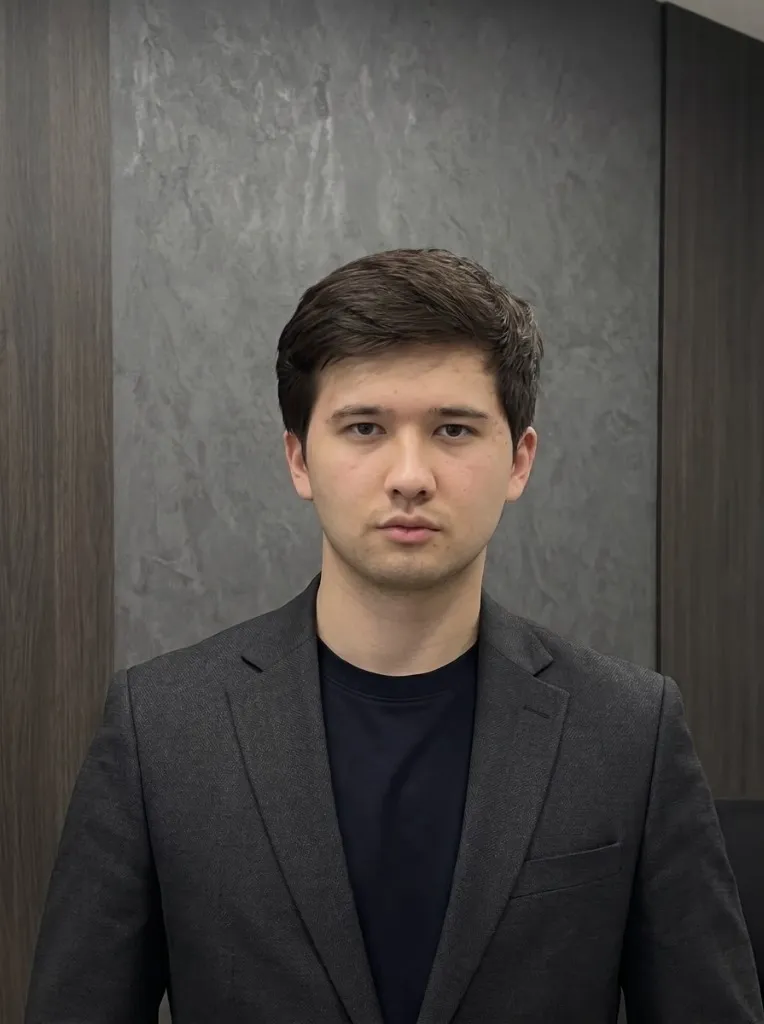
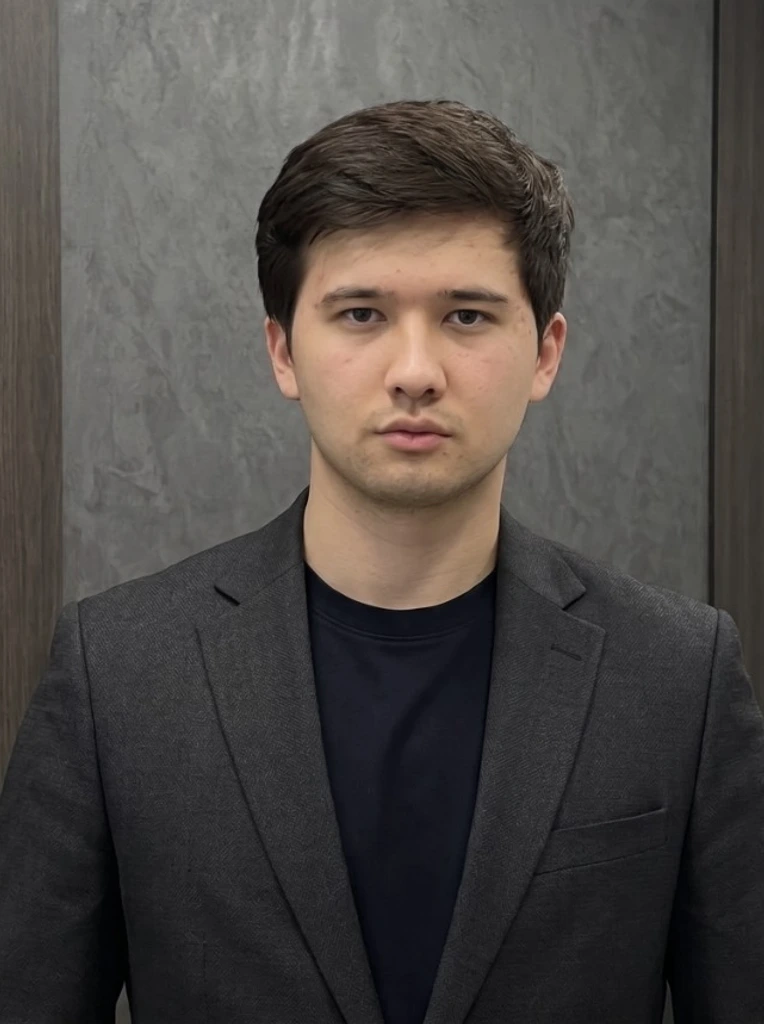
fix(team): align Akrom portrait framing and update Sevinchoy admin email

diff --git a/frontend/src/components/dashboard/AdminOverview.tsx b/frontend/src/components/dashboard/AdminOverview.tsx
@@ -896,7 +896,7 @@ export default function AdminOverview() {
                     <tbody className="divide-y divide-inherit">
                       {[
                         { name: "Iminjonov Muhammadaziz", email: "dev.iminjonov@gmail.com", role: "ADMIN", date: "2026.01.10", status: "FAOL" },
-                        { name: "Sevinchoy Soporboyeva", email: "sevinchinoyatovna005@gmail.com", role: "ADMIN", date: "2026.01.12", status: "FAOL" },
+                        { name: "Sevinchoy Soporboyeva", email: "sevinchoysoporboyeva@gmail.com", role: "ADMIN", date: "2026.01.12", status: "FAOL" },
                         { name: "Abdumanov Akrom", email: "abdumanovjamshid1@gmail.com", role: "ADMIN", date: "2026.01.14", status: "FAOL" },
                         { name: "Chorva Baraka LLC (Muhammadayub)", email: "iminjonovmuhammadayub@zaminflow.uz", role: "FARMER", date: "2026.02.01", status: "FAOL" },
                       ].map((u, i) => (
